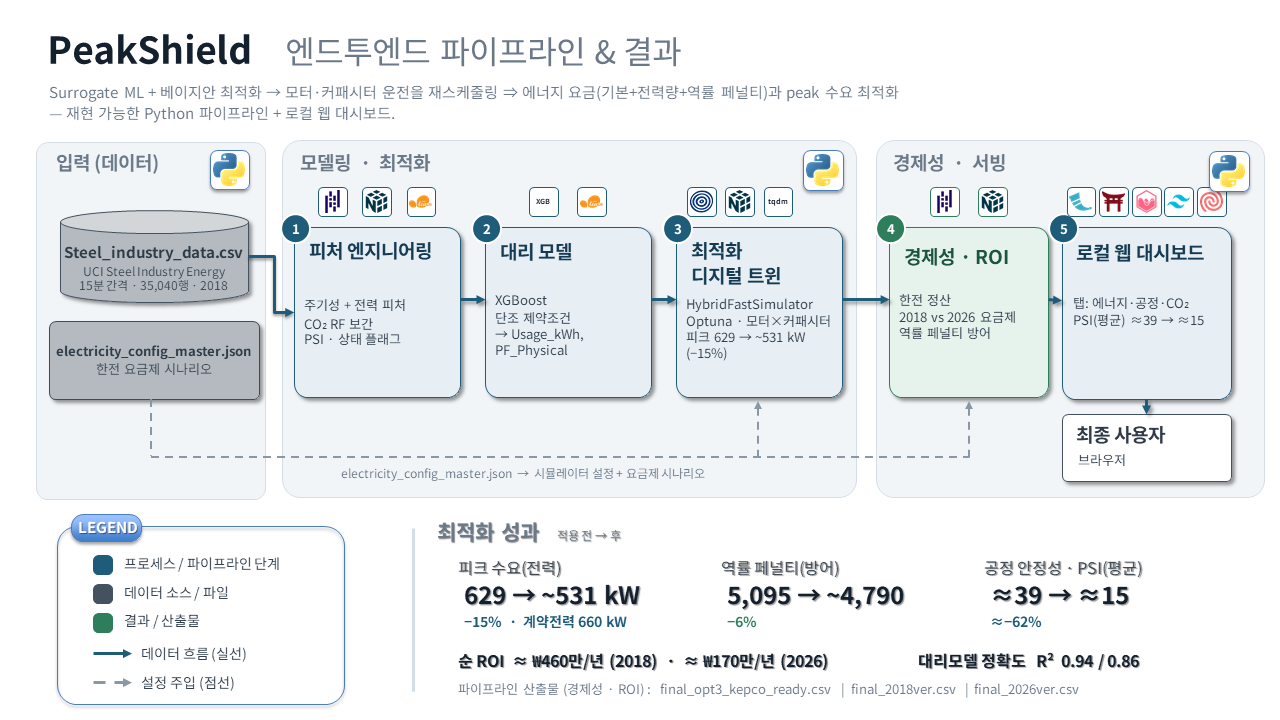
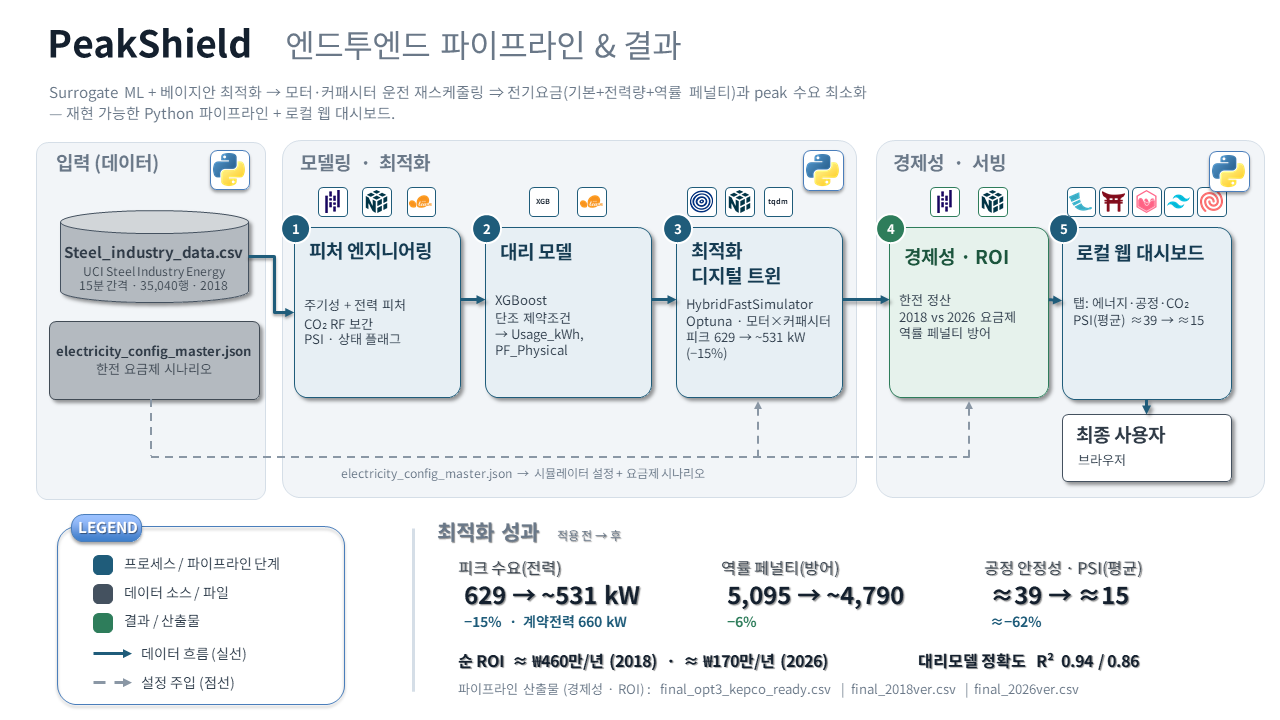
docs: finalize wording (KO diagram -> 전기요금/최소화; README EN intro -> electricity cost, CO2 emissions tracked on dashboard)

Changed region(s): [[0.0312, 0.0306, 0.5312, 0.0917], [0.3125, 0.1222, 0.7188, 0.1528]]

diff --git a/README.md b/README.md
@@ -6,8 +6,8 @@
 
 A digital-twin simulation that takes 15-minute steel-process electricity data and, using
 **surrogate ML models + Bayesian optimization (Optuna)**, re-schedules motor/capacitor
-utilization to **minimize the electricity bill (base + energy + power-factor penalty) and
-peak demand**, with CO₂ tracked alongside on the dashboard.
+utilization to **minimize electricity cost (base + energy + power-factor penalty) and
+peak demand**, with CO₂ emissions tracked alongside on the dashboard.
 
 The whole analysis is packaged as a **reproducible Python pipeline** — reusable modules plus
 ordered entry-point scripts.